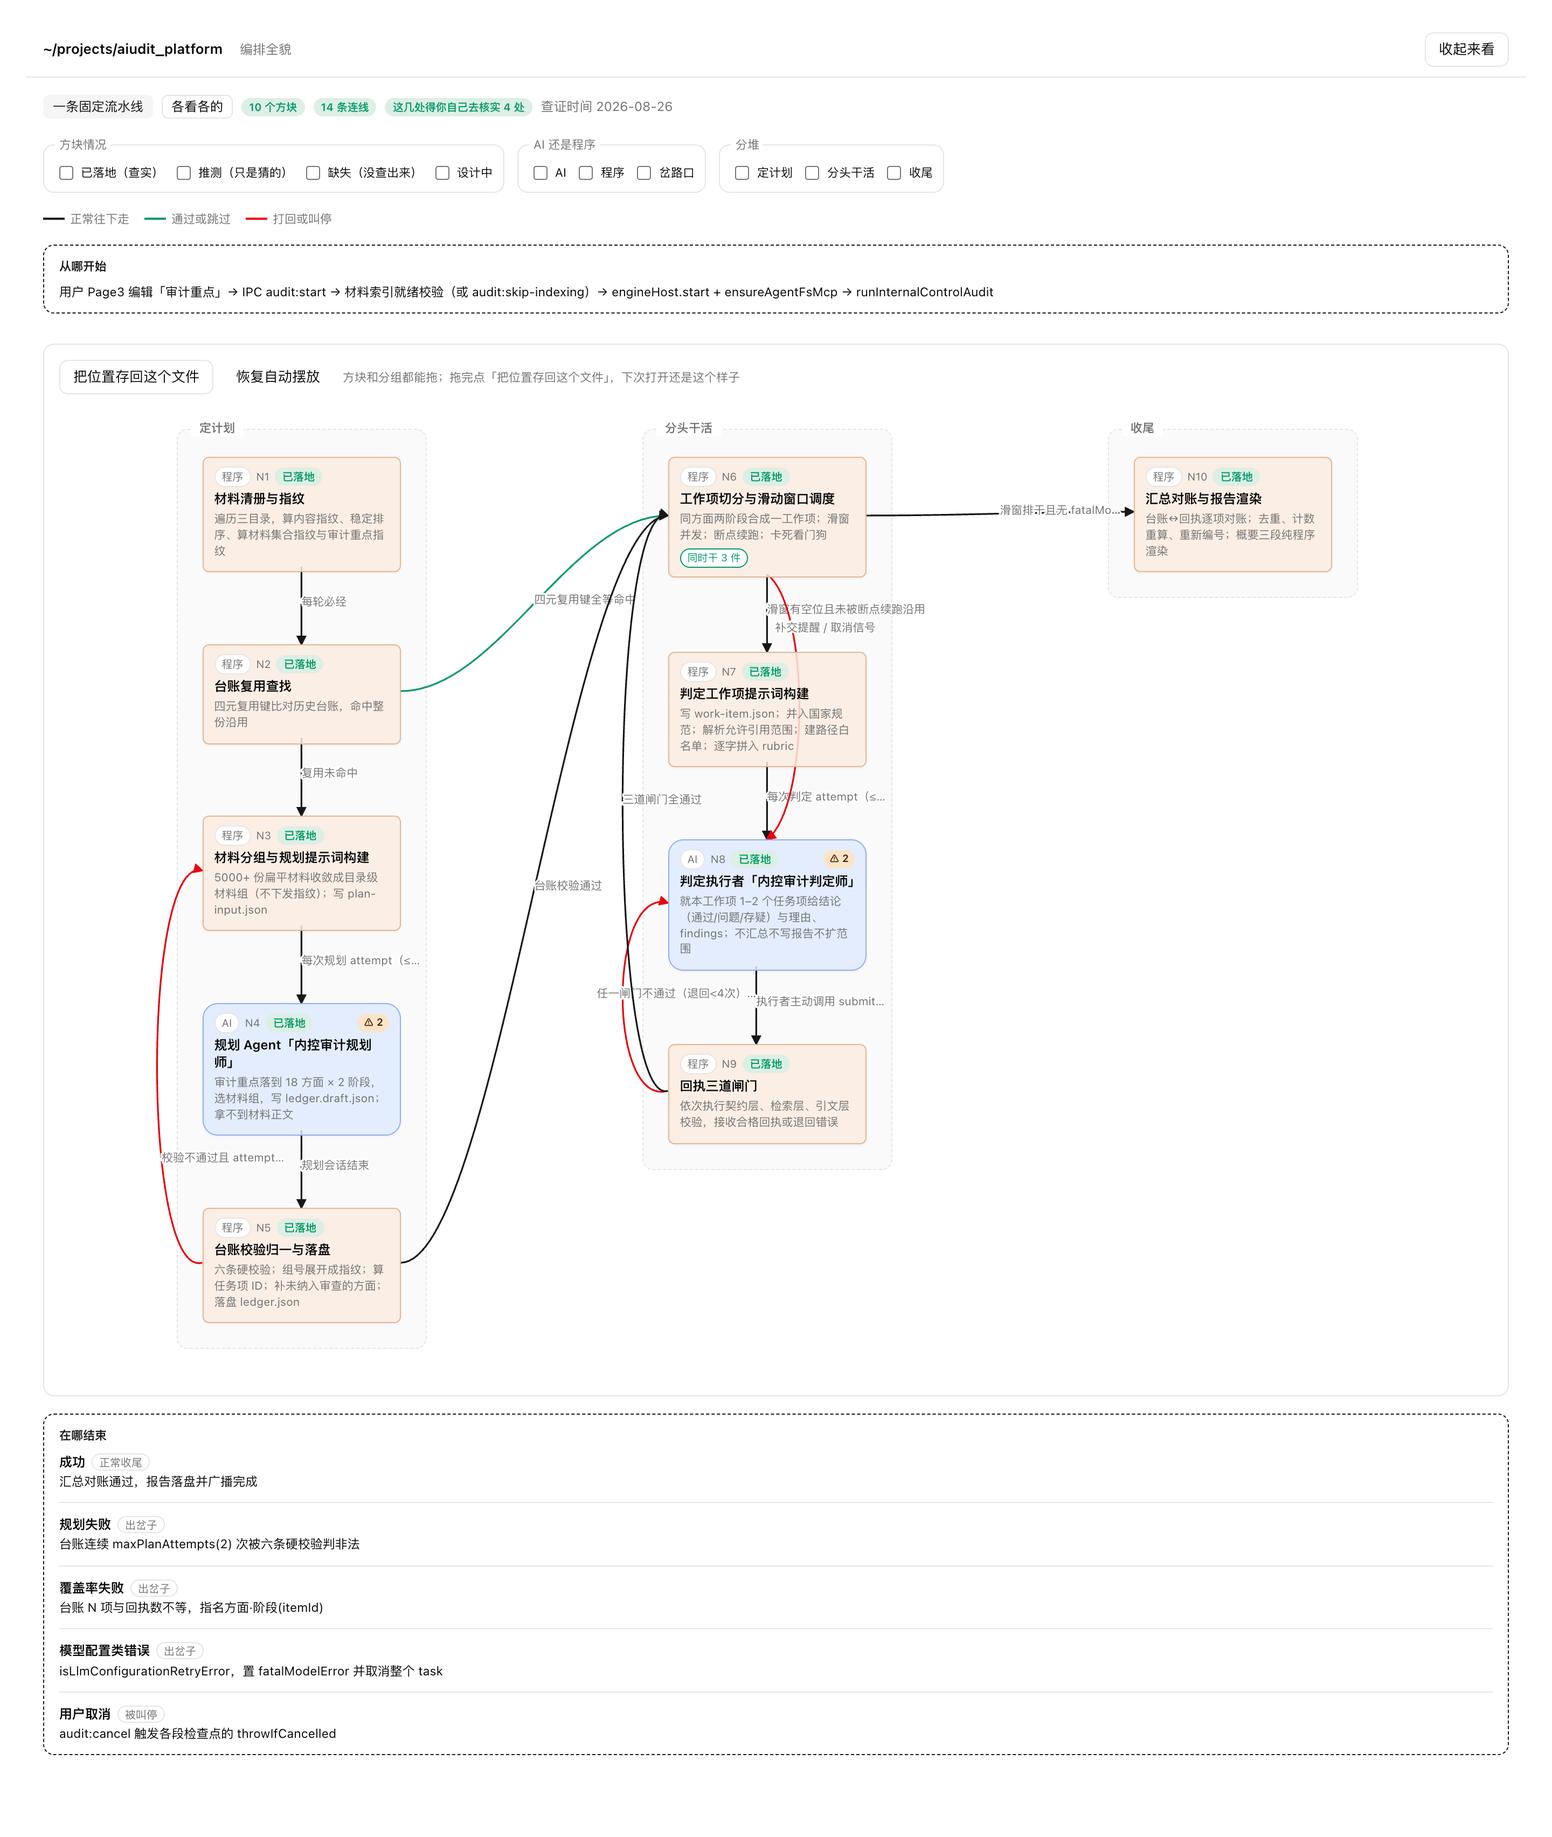
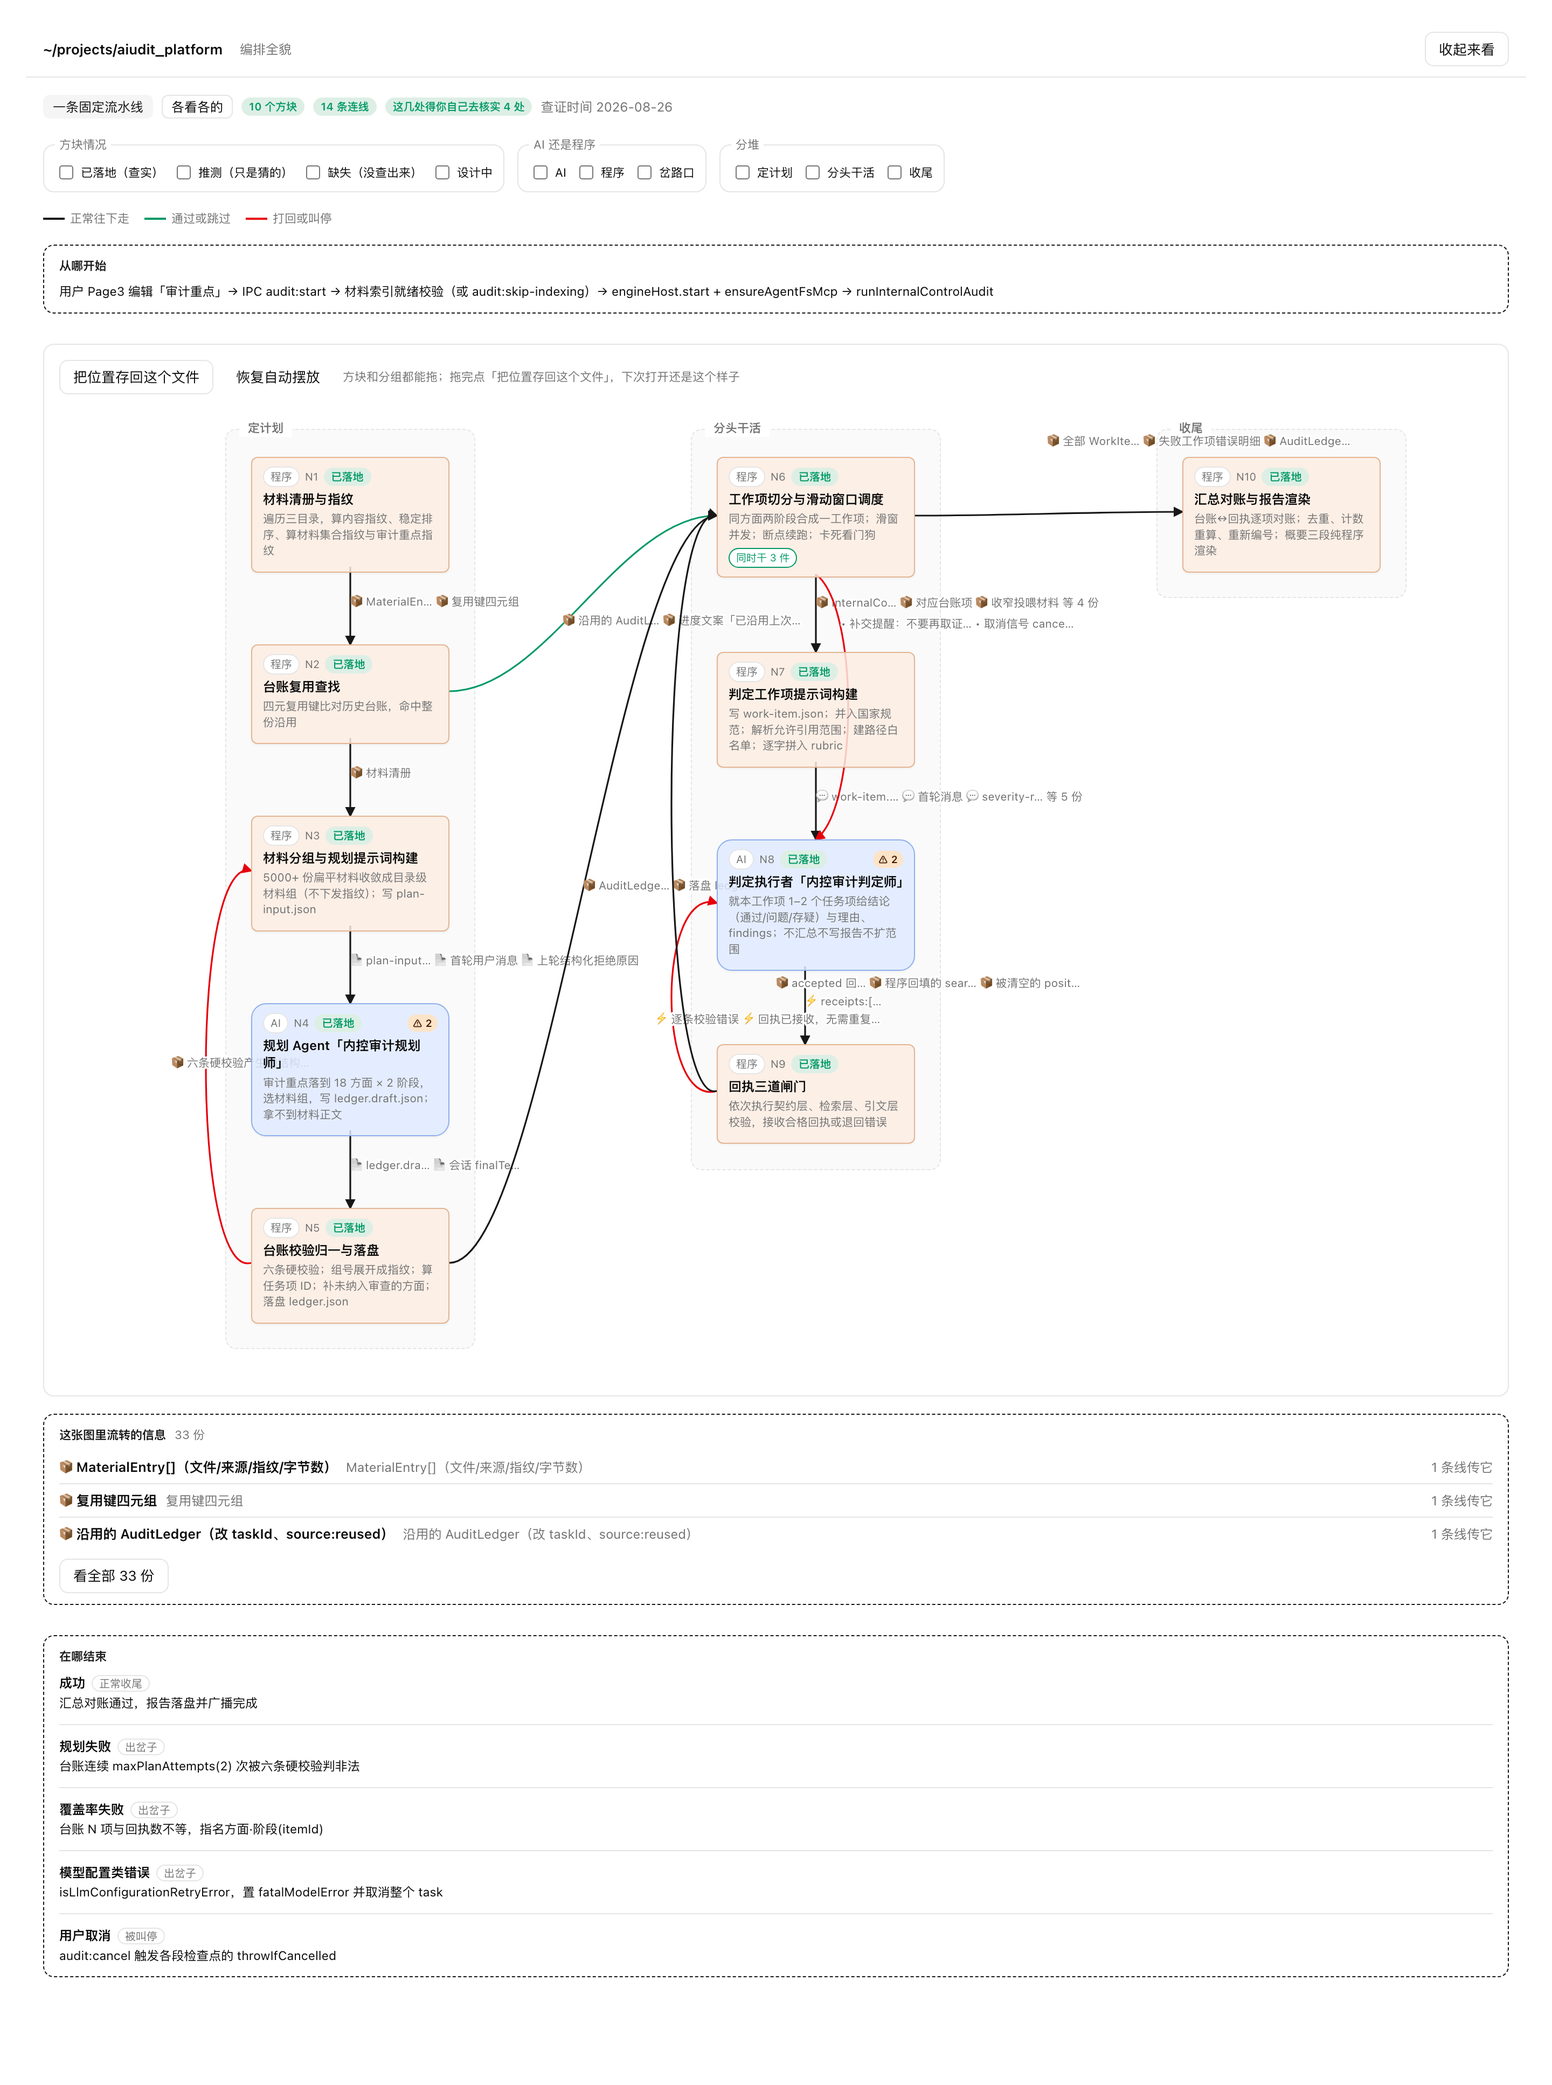
docs(README): 截图重拍并中英各一套，正文跟着改
- 新增 tools/shoot.mjs 一次拍六张。放仓库根不放 agentic-topology/scripts/：
  那个目录有「全仓只有 write-output.mjs 碰写操作」的断言，截图工具要写 png，
  放进去会把那条不变量弄红；它也不是技能的一部分
- 页高不再靠估——发起说明、信息清单、收尾块都随内容伸缩，估宽了底下一大片白、
  估窄了截断。改成往拍照副本塞一段脚本把 scrollHeight 写进 title，再 dump-dom 读回来
- 详情弹层与折叠视图无头浏览器点不出来，直接改拍照副本的 hidden 与弹层内容，
  不动出图产物本身
- 中文 README 配中文界面那套（真实的 1500 行内控模块），英文 README 配英文样例那套。
  图上的正文是被分析项目自己的话、--lang en 不翻译，所以英文那份换的是描述而不是翻译；
  两份 README 各自说明了这件事并互相指路
- 两份 README 补上信息块与 --lang 两项能力，并把「传递物」的说法改到位
- cli-install 断言扩到两套图，并新增一条：两个 README 引的是各自那一套，不许交叉
- 顺带修 `1 tools` 的英文复数，把 Skill 计数收进短语函数

diff --git a/agentic-topology/assets/page-shell/topo.css b/agentic-topology/assets/page-shell/topo.css
@@ -147,3 +147,5 @@ text.topo-lit { fill: var(--primary); stroke-width: 3.5px; }
   border: 1px solid color-mix(in oklab, var(--primary) 30%, var(--border)); border-radius: var(--radius);
   background: color-mix(in oklab, var(--primary) 6%, var(--card)); font-size: 12px; }
 .topo-infobar[data-lit] { display: flex; }
+/* 清单标题后面跟着的计数徽章要有间距——「这张图里流转的信息4 份」是贴在一起的。 */
+.topo-pill-head .topo-acc-mark { margin-left: 8px; }

diff --git a/README.md b/README.md
@@ -8,22 +8,28 @@ Point it at a repo and say "draw this project's orchestration." It reads the sou
 **which AIs exist, what tools each one has, what the deterministic code between them does, who calls
 whom, and what gets handed over** — then renders **a single HTML file that opens offline**.
 
-![Orchestration overview](./assets/images/overview.png)
+![Orchestration overview](./assets/images/en/overview.png)
 
-That screenshot is real output — read from an internal-audit module (1,500 lines of TypeScript):
-10 boxes, 14 connections. Fill color says only who is doing the work: blue for AI, orange for
-program, purple for branch point. The ⚠ badge in the corner of the two AI boxes means "there are
-things here you still need to verify yourself"; the top bar totals them as *4 things to verify*.
-**It tells you what it found, not what it thinks of it.**
+That is the bundled sample rendered with `--lang en`. Fill color says only who is doing the work:
+blue for AI, orange for program, purple for branch point. Every line says **which pieces of
+information it carries** — the icon is how each one is handed over, and clicking a name lights up
+every line carrying that same piece. Under the canvas, *what moves around in this picture* lists
+them all. **It tells you what it found, not what it thinks of it.**
+
+> The prose on the diagram — box names, what each one does, what each piece of information is —
+> is the analysed project's own words, and `--lang en` never translates it. So these screenshots
+> come from an English sample. For a diagram read from a **real** 1,500-line internal-audit module
+> (10 boxes, 14 connections, 4 things flagged to verify), see the
+> [Chinese README](./README.zh-CN.md).
 
 Click any box and its full detail opens in a panel — **every box and every connection carries a
 `file:line` citation**:
 
-![Node detail](./assets/images/detail.png)
+![Node detail](./assets/images/en/detail.png)
 
 Too many boxes? Collapse them by group. Nothing is dropped when you do:
 
-![Folded view](./assets/images/folded.png)
+![Folded view](./assets/images/en/folded.png)
 
 ---
 
@@ -96,10 +102,13 @@ On the normal path you need neither.
 | **Each AI's system prompt** | Which file, which lines — click to expand that exact range |
 | **Tools / MCP / Skills** | What each AI has. "None" is written as `[]`; "couldn't determine" gets a ⚠ badge instead, so the two never blur together |
 | **When it stops** | Steps, time, cost, consecutive failures — all four, and "not set" is stated explicitly |
-| **Who calls whom, carrying what** | Every connection carries its trigger, carrier, concurrency control, and for each payload *when it's produced* and *when it's handed over* |
+| **Who calls whom, carrying what** | Every connection carries its trigger, concurrency control, and the pieces of information it hands over — each reference saying *how* it is handed over and *when* |
+| **What moves around, as a thing in its own right** | Each piece of information is written **once** and referenced by every line that carries it, so "these three lines all carry the same thing" is visible instead of guessed. The line shows its name plus a one-character icon for how it's handed over (at most three, then *+N total*); click a name and every line carrying it lights up while the rest fade. A list under the canvas — and a full seven-column view — gives what it is, roughly what's inside, what form it takes, where it comes from and ends up, and where that was found |
+| **"These two might be the same thing"** | When the reading can't establish that two pieces are the same, they stay **separate**, both marked *a guess*, with one pointing at the other — and that pair lands in the verify-this list by name. It never quietly merges them to make the chain look tidy |
 | **Where it starts and where it ends** | Bracketing the canvas: the entry path sits above the diagram, and the normal, abnormal, and cancelled exits below it |
 | **How sure it is** | Four levels: landed (verified) / inferred (a guess) / missing (couldn't determine) / by design. All four carry a badge; the last three also get a dashed border. You can filter on it |
-| **Verify-this list** | A ⚠ badge in the corner of the box it belongs to, or a tooltip on the connection; the top bar carries only the total — click the thing you want to check, no separate table to hunt through |
+| **Verify-this list** | A ⚠ badge in the corner of the box it belongs to, a tooltip on the connection, or a badge next to the piece of information in the list; the top bar carries only the total — click the thing you want to check, no separate table to hunt through |
+| **Chinese or English** | `--lang zh` (the default) or `--lang en` switches the page's own wording. The description's prose is never translated |
 | **Laid out the way you want** | Boxes and groups drag, connections re-route live; "save the positions into this file" writes them back into the same HTML so it opens that way next time (browsers without the File System Access API download a new copy for you to overwrite instead), and one click restores the automatic layout |
 
 Every prose field (boxes, detail, entry, exits, stop conditions, payloads) goes through Markdown, so
@@ -141,9 +150,12 @@ anything**, so you can confirm yourself. A slip like `--dir .` cannot wipe your 
 
 ```bash
 npx agentic-topology install  [--agent claude|codex] [--dir <dir>]
-npx agentic-topology render   <description-file> [-o <output.html>] [--force]
+npx agentic-topology render   <description-file> [-o <output.html>] [--force] [--lang zh|en]
 npx agentic-topology validate <description-file> [--format json]
 ```
+
+`--lang` defaults to `zh`. An unknown value is an error listing what is accepted — it never
+quietly falls back, which would hand you a Chinese page while you believed `--lang en` had worked.
 
 Exit codes: `0` ok · `2` validation failed · `3` syntax error or file unreadable · `1` internal error
 
@@ -179,7 +191,10 @@ agentic-topology/        the skill and CLI — this directory is what the npm pa
   bin/                     npx entry point and installer
   tests/                   test suite, node:test, zero dependencies (`npm test`)
 
-assets/images/           the screenshots above; they serve the README only and are not installed
+assets/images/           screenshots for the Chinese README (Chinese UI)
+assets/images/en/        screenshots for this README (English UI)
+                         both serve the READMEs only and are not installed
+tools/shoot.mjs          re-shoots all six, both languages, in one run
 ```
 
 ---
@@ -189,7 +204,7 @@ assets/images/           the screenshots above; they serve the README only and a
 **Works**: rendering from a filled-in description, validation with per-field errors, group folding,
 filtering by confidence and type, box and connection drill-down in a panel, prompt ranges expanded inline,
 verify badges, drag-to-arrange with positions saved back into the file, non-clobbering regeneration,
-staleness notices.
+staleness notices, information as a first-class thing with click-to-highlight, Chinese and English UI.
 
 **Missing**: the ship line requires **zero missed agent nodes and zero missed call edges across 3
 real projects**. It is **not met**. Three things are outstanding:

diff --git a/README.zh-CN.md b/README.zh-CN.md
@@ -11,7 +11,13 @@
 上面这张是真的——从一个内控审计子模块（1500 行 TypeScript）读出来的：10 个方块、14 条连线。
 底色只说这个方块是谁在干：蓝的是 AI、橙的是程序、紫的是岔路口。
 两个 AI 方块右上角那个 ⚠ 是「这一块里有几项还得你自己去核实」，顶栏把它们汇总成「4 处」。
+每条线上写的是**它传的是哪几份信息**——前面那个小标是这一份靠什么交过去的，
+点一份信息的名字，传它的那几条线一起亮起来。画布下面「这张图里流转的信息」把它们列全。
 **它只告诉你它查到了什么，不告诉你它觉得怎么样。**
+
+> 图上的正文——方块名、干什么、每份信息是什么——都是被分析项目自己的话，
+> `--lang en` 也不会翻译它。所以英文那份 README 配的是一份英文样例的图，
+> 见 [English README](./README.md)。
 
 点开任何一个方块，弹层里是它的全部细节，**每个方块、每条连线都带着 `文件:行号`**：
 
@@ -88,13 +94,16 @@ npx agentic-topology install
 | **每个 AI 的提示词** | 写在哪个文件哪几行，点开直接展开那一段 |
 | **工具 / MCP / Skill** | 每个 AI 手上有什么。"一个都没有"写成 `[]`，"没查出来"另挂 ⚠ 角标，两者不会糊成一回事 |
 | **它什么时候会停下** | 步数、时间、成本、连续失败——四项都要有，没设就明写「没设」 |
-| **谁调谁、传了什么** | 每条连线带触发条件、载体、并发控制，以及每个传递物「什么时候产生」「什么时候传递」 |
+| **谁调谁、传了什么** | 每条连线带触发条件、并发控制，以及它传的那几份信息——每条引用各自写清「靠什么交过去」和「什么时候交出去」 |
+| **传的那份东西本身就是一等公民** | 一份东西全图只写一条，传它的每条线都引用同一个编号，「这三条线传的是同一份」于是看得见，而不用猜。线上写它的名字加一个字的交法小标（至多三份，多了收成「等 N 份」）；点名字，传它的线全亮、其余淡出。画布下面一份清单、点开还有七列的全量视图，写清它是什么、里面大致有什么、什么形态、从哪来到哪去、这事是从哪查到的 |
+| **「这两份可能是同一份」** | 读不出两处是不是同一份时，**拆开**、两份都标「只是猜的」、其中一份指向另一份，并在核实清单里点名这两份。它不会为了让链路看起来顺就悄悄并掉 |
 | **从哪开始、在哪结束** | 一前一后夹着画布：发起路径写在图上方，正常结束、异常结束、被取消三类终点写在图下方 |
 | **查得准不准** | 四档：已落地（查实）/ 推测（只是猜的）/ 缺失（没查出来）/ 设计中。四档各自挂徽章，后三档另描虚线边框，可以按这个筛选 |
-| **要你核实的清单** | 挂在各自方块右上角的 ⚠ 角标和连线的悬浮提示上，顶栏只给一个总数——查哪一处就点哪一处，不用另找一张表 |
+| **要你核实的清单** | 挂在各自方块右上角的 ⚠ 角标、连线的悬浮提示、以及信息清单里那一份旁边，顶栏只给一个总数——查哪一处就点哪一处，不用另找一张表 |
+| **中文界面还是英文界面** | `--lang zh`（默认）或 `--lang en` 切界面文案。描述里的正文一律不翻译 |
 | **摆成你要的样子** | 方块和堆都能拖，连线实时重算；点「把位置存回这个文件」就写回这份 HTML，下次打开还是这个样子（浏览器不支持直接写回时会下载一份带位置的新文件，覆盖原文件即可），也能一键「恢复自动摆放」 |
 
-正文字段（方块、详情、发起、收尾、停止条件、传递物）一律走 Markdown，长句子在图上不会被 YAML 里的手工折行带偏。
+正文字段（方块、详情、发起、收尾、停止条件、每份信息）一律走 Markdown，长句子在图上不会被 YAML 里的手工折行带偏。
 
 **它不评价架构好坏，也不给改进建议。** 用途是让你**看清楚到能自己下判断**。
 
@@ -128,9 +137,12 @@ npx agentic-topology install --dir path/to/skills/agentic-topology
 
 ```bash
 npx agentic-topology install  [--agent claude|codex] [--dir <目录>]
-npx agentic-topology render   <描述文件> [-o <输出.html>] [--force]
+npx agentic-topology render   <描述文件> [-o <输出.html>] [--force] [--lang zh|en]
 npx agentic-topology validate <描述文件> [--format json]
 ```
+
+`--lang` 默认 `zh`。取值不认识就报错并列出认得哪几个，**不会静默回落成中文**——
+那会让你以为 `--lang en` 生效了，实际拿到一张中文图。
 
 退出码：`0` 通过 · `2` 校验不通过 · `3` 语法错或文件读不了 · `1` 程序自身异常
 
@@ -165,7 +177,10 @@ agentic-topology/        技能本体与命令行——npm 包发布的就是这
   bin/                     npx 入口与安装器
   tests/                   测试套件，node:test，零依赖（`npm test`）
 
-assets/images/           上面那几张截图（只服务 README，装技能时不会带过去）
+assets/images/           中文 README 的截图（中文界面）
+assets/images/en/        英文 README 的截图（英文界面）
+                         两套都只服务 README，装技能时不会带过去
+tools/shoot.mjs          一次重拍两种语言那六张图
 ```
 
 ---
@@ -173,7 +188,8 @@ assets/images/           上面那几张截图（只服务 README，装技能时
 ## 现在做到了什么、还差什么
 
 **做得到**：拿一份填好的描述出图、校验并逐条报错、分堆折叠、按可信度与类型筛选、
-方块与连线下钻成弹层、提示词按行区间展开、核实角标、拖动摆位并存回文件、二次生成不覆盖、过期提示。
+方块与连线下钻成弹层、提示词按行区间展开、核实角标、拖动摆位并存回文件、二次生成不覆盖、过期提示、
+信息成为一等公民并可点击追踪、中英双语界面。
 
 **还差**：上线线要求**在 3 个真实项目上 agent 节点与调用边遗漏 = 0**，目前**未达标**，欠三笔：
 
